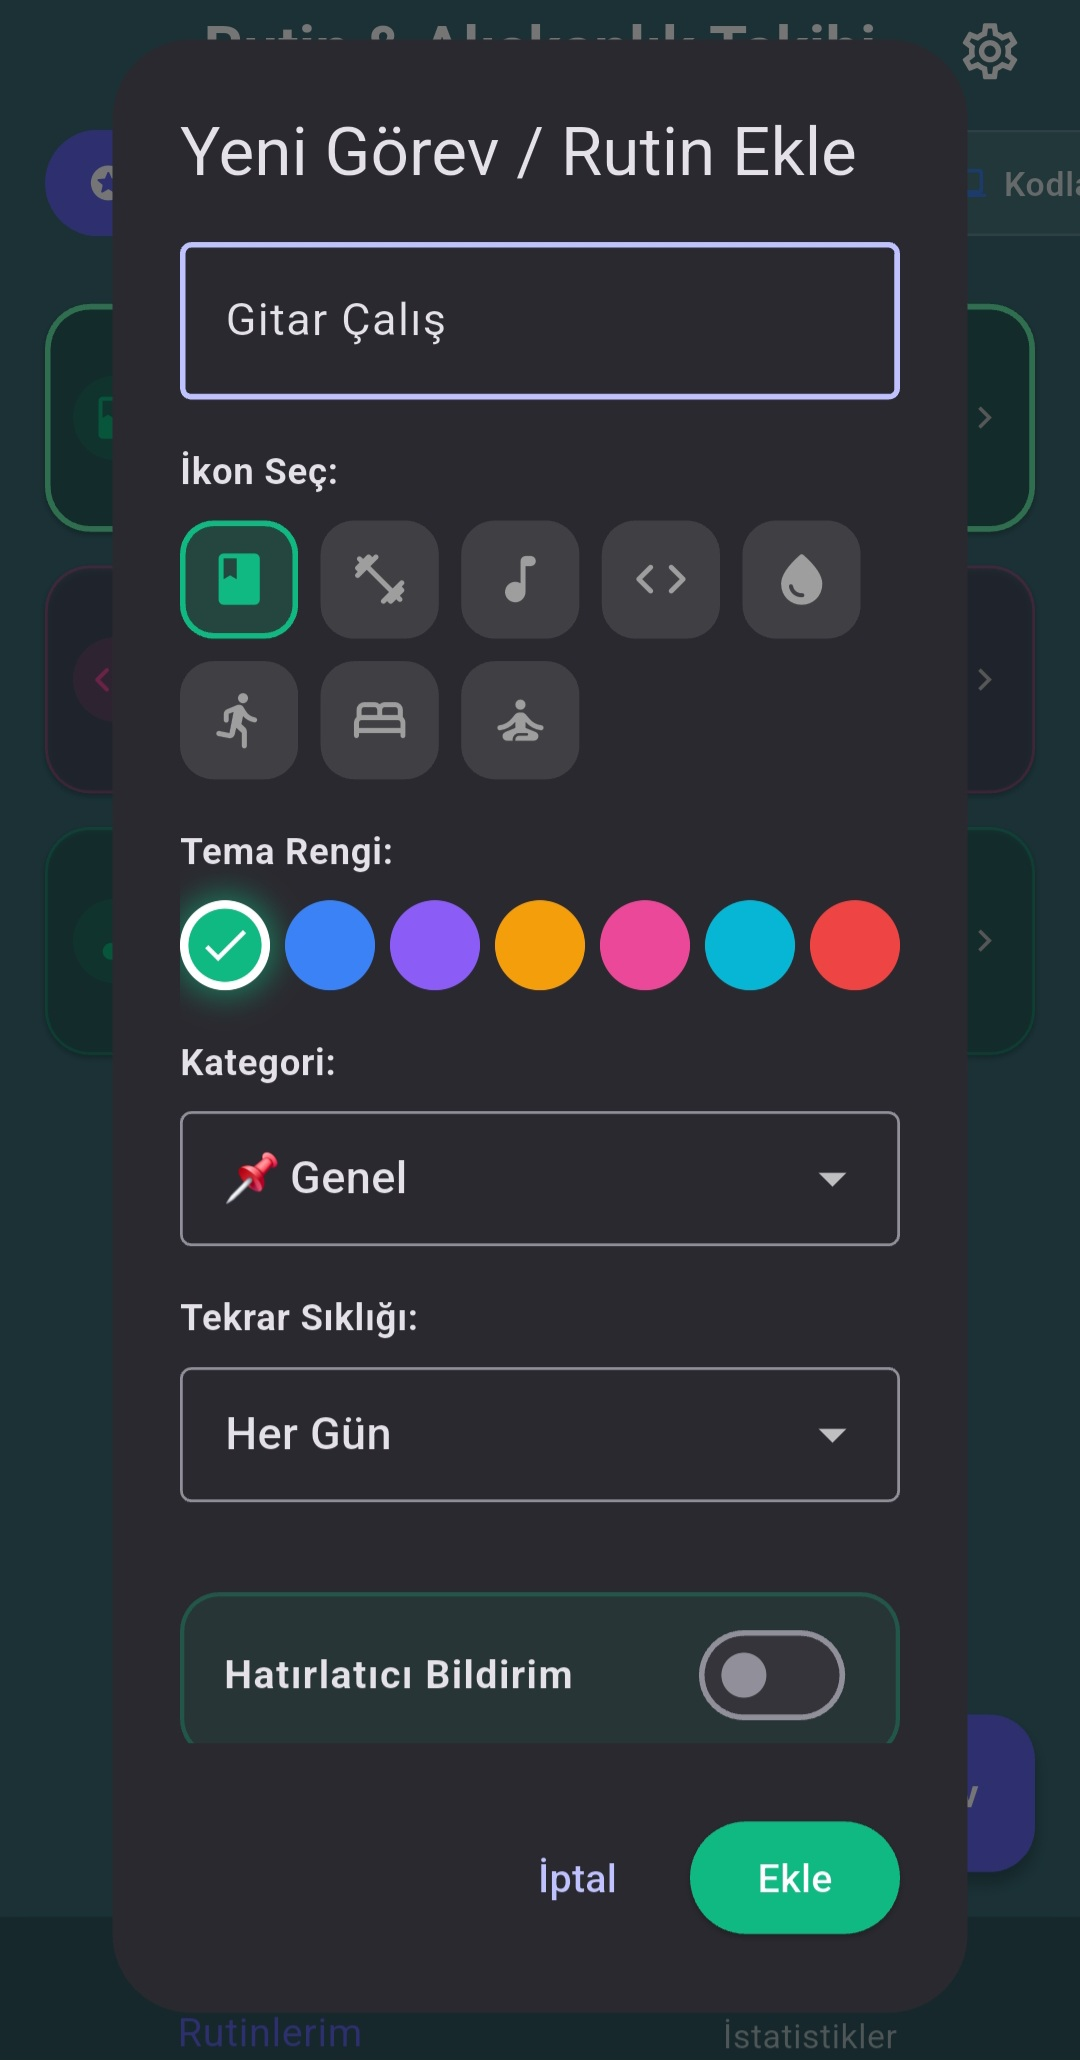
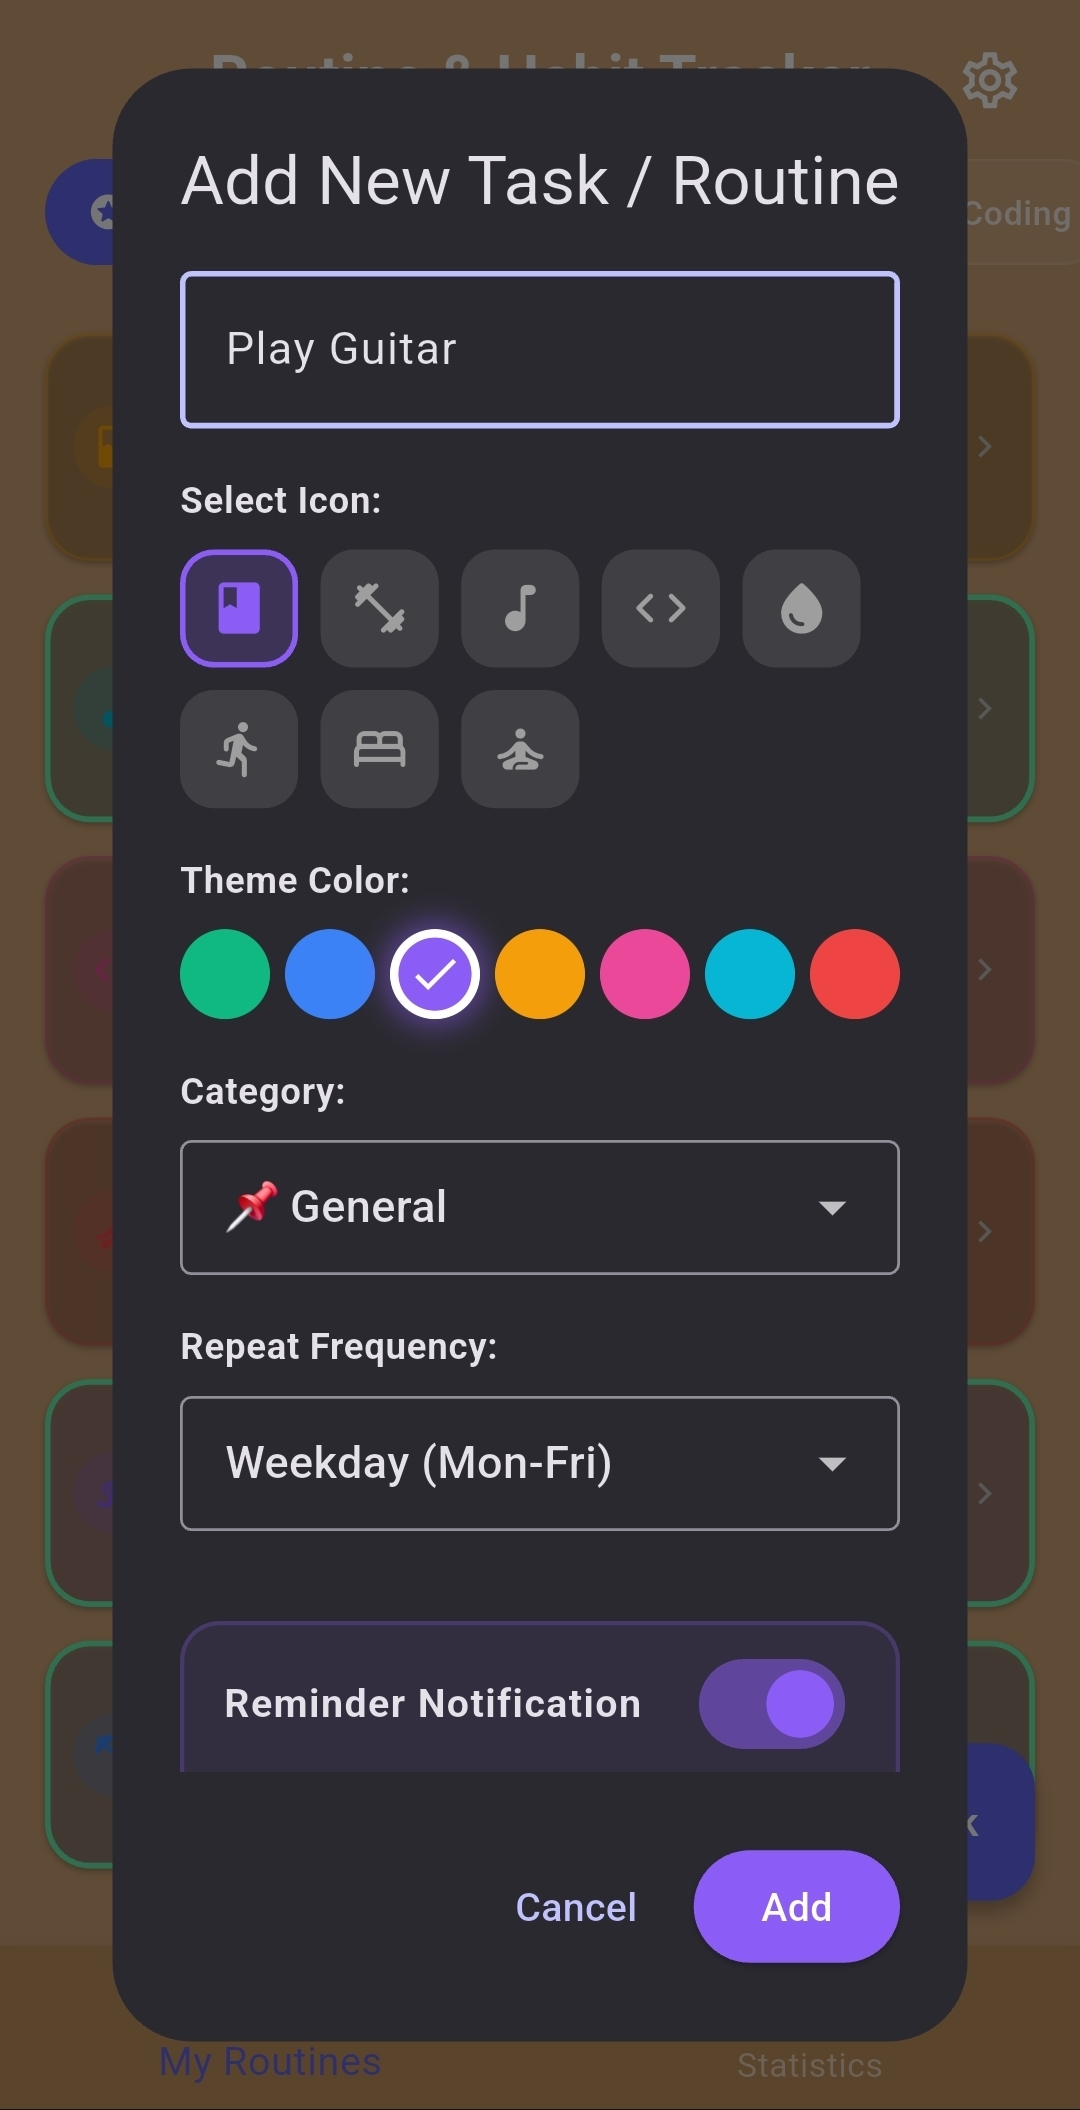
Update portfolio for Habitto v1.1.0 release and localized screenshots

diff --git a/src/data/portfolioData.ts b/src/data/portfolioData.ts
@@ -19,7 +19,7 @@ export const siteData = {
     primaryButton: { label: 'View selected work', href: '#work' },
     secondaryButton: { label: 'GitHub profile ↗', href: 'https://github.com/kagankurubas' },
     proofs: [
-      'Habitto v1.0.0 released',
+      'Habitto v1.1.0 released',
       'Automated Flutter CI',
     ],
     profile: {
@@ -33,17 +33,24 @@ export const siteData = {
   selectedWork: {
     eyebrow: 'Selected work',
     title: 'One finished product says more than ten unfinished demos.',
-    description: 'Habitto is my current flagship public project: designed, developed, tested, signed, and distributed as a real Android release.',
+    description: 'Habitto is my current flagship public project: designed, developed, localized, tested, signed, and distributed as a real Android release.',
     project: {
-      label: 'Public Android release · v1.0.0',
+      label: 'Public Android release · v1.1.0',
       title: 'Habitto',
-      description: 'A customizable, local-first habit and routine tracker built to make consistency visible, motivating, and private.',
+      description: 'A bilingual, customizable, local-first habit and routine tracker built to make consistency visible, motivating, and private.',
       features: [
-        'Flexible habit scheduling, reminders, streaks, and statistics',
-        'Achievement system, themes, local JSON backup, and restore',
-        'Automated formatting, analysis, tests, and Android build validation',
+        'Flexible scheduling, timezone-aware reminders, streaks, statistics, and achievements',
+        'English and Turkish localization with persistent language preferences',
+        'Versioned JSON backup and restore, automated tests, and signed Android releases',
       ],
-      tags: ['Flutter', 'Dart', 'Hive', 'Local Notifications', 'GitHub Actions'],
+      tags: [
+        'Flutter',
+        'Dart',
+        'Hive',
+        'Localization',
+        'Local Notifications',
+        'GitHub Actions',
+      ],
       primaryButton: { label: 'Download Android APK ↗', href: 'https://github.com/kagankurubas/habitto/releases/latest' },
       secondaryButton: { label: 'View source ↗', href: 'https://github.com/kagankurubas/habitto' },
       screenshots: [
@@ -52,9 +59,18 @@ export const siteData = {
         'statistics.jpg',
       ],
       metrics: [
-        { title: 'Local-first', subtitle: 'No account and no automatic personal-data upload' },
-        { title: 'Release-ready', subtitle: 'Signed APK distributed through GitHub Releases' },
-        { title: 'Continuously verified', subtitle: 'Formatting, analysis, tests, and debug build in CI' },
+        {
+          title: 'Local-first',
+          subtitle: 'No account and no automatic personal-data upload',
+        },
+        {
+          title: 'Release-ready',
+          subtitle: 'Signed Habitto v1.1.0 APK distributed through GitHub Releases',
+        },
+        {
+          title: 'Production-tested',
+          subtitle: 'Automated tests, CI validation, physical-device testing, and verified upgrades',
+        },
       ],
     },
   },
@@ -86,7 +102,11 @@ export const siteData = {
     items: [
       { number: '01', title: 'Unreal Engine 5', description: 'Deepening my understanding of UE5, C++, Blueprints, gameplay architecture, and reusable gameplay systems.' },
       { number: '02', title: 'Taskbar Idle Game', description: 'Preparing a collaborative taskbar idle game project that will become my next public game-development repository.' },
-      { number: '03', title: 'Habitto Improvements', description: 'Expanding automated test coverage and planning future accessibility, localization, and backup improvements.' },
+      {
+        number: '03',
+        title: 'Habitto Improvements',
+        description: 'Maintaining Habitto v1.1.0 while exploring future accessibility, usability, and product-quality improvements.',
+      },
     ],
   },
   skills: {
